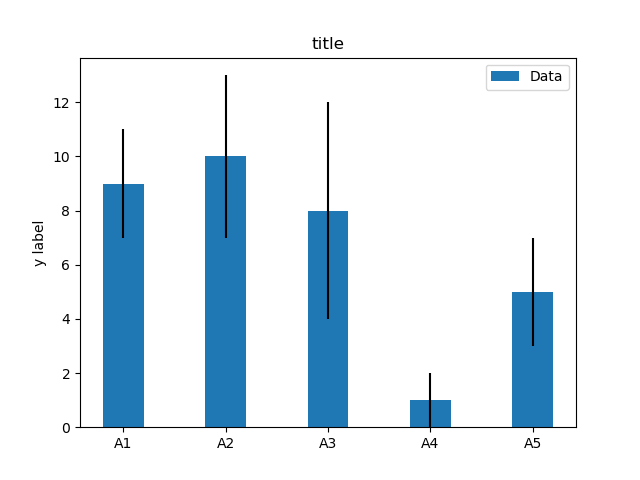
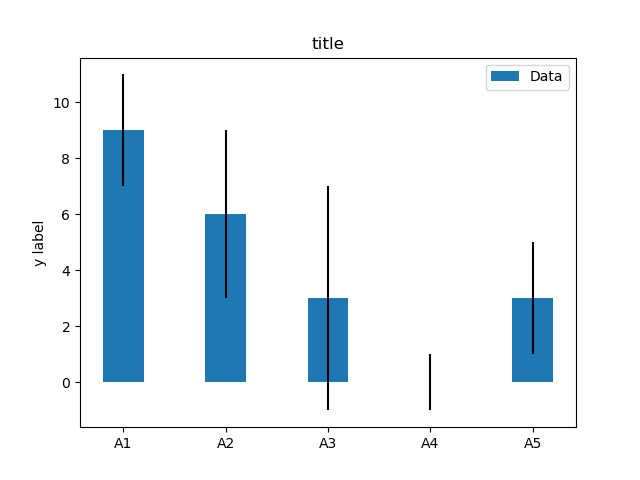
first commit

diff --git a/example.py b/example.py
@@ -2,7 +2,7 @@ import numpy as np
 import matplotlib.pyplot as plt
 
 labels = ['A1', 'A2', 'A3', 'A4', 'A5']
-m_means = [9,10,8,1,5]
+m_means = [9,6,3,0,3]
 m_std = [2, 3, 4, 1, 2]
 width = 0.40       # the width of the bars
 

diff --git a/README.md b/README.md
@@ -1,4 +1,4 @@
-# Matplotlib no 255 
+# Matplotlib no 256 
 
 python example
 
